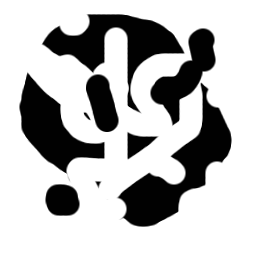
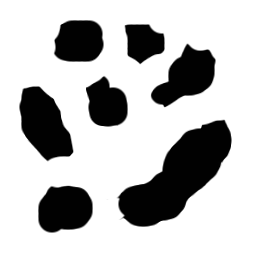
brush change

diff --git a/renderer.html b/renderer.html
@@ -81,8 +81,8 @@ var renderers = {
         prev=p;
         r=0.14*Math.exp(0.2*weight.next(l*8))
         for(var i=0;i<4;i++){
-          var alpha=0.05*Math.exp(0.2*params[i].next(l*8))
-          g.globalAlpha=alpha/Math.max(l,0.01)/100;
+          var alpha=Math.exp(0.4*params[i].next(l*8))
+          g.globalAlpha=0.05*alpha/Math.max(100*l,1);
           g.drawImage(renderers.brush.brushes[i],p.x-r/2,p.y-r/2,r,r);
         }
       })
